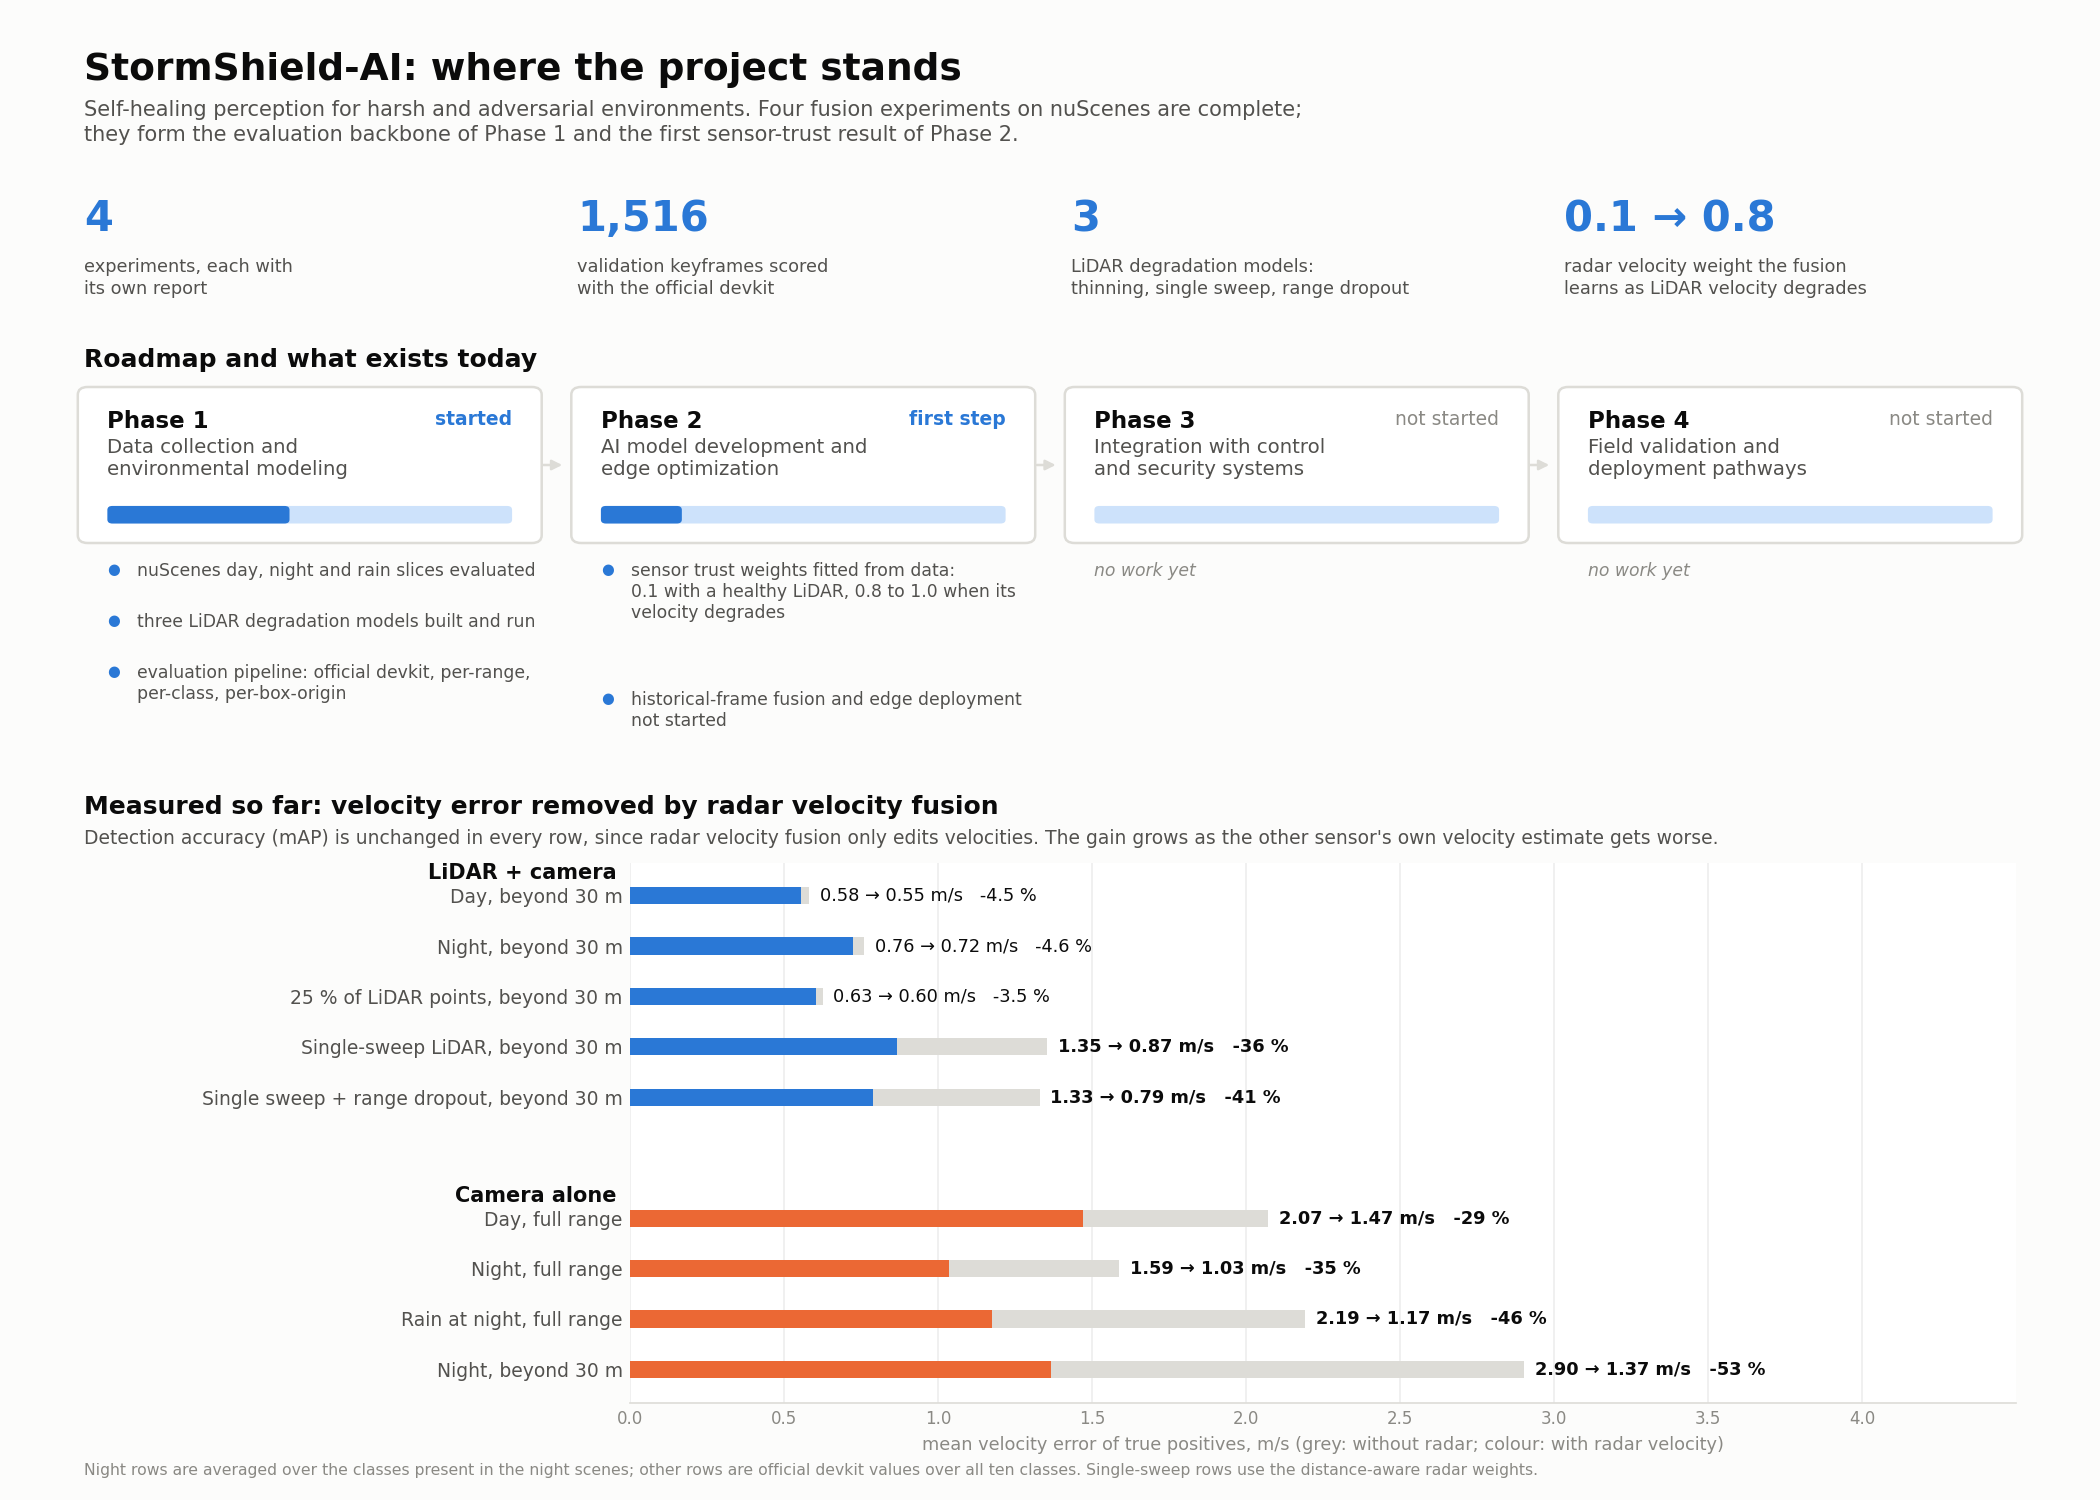
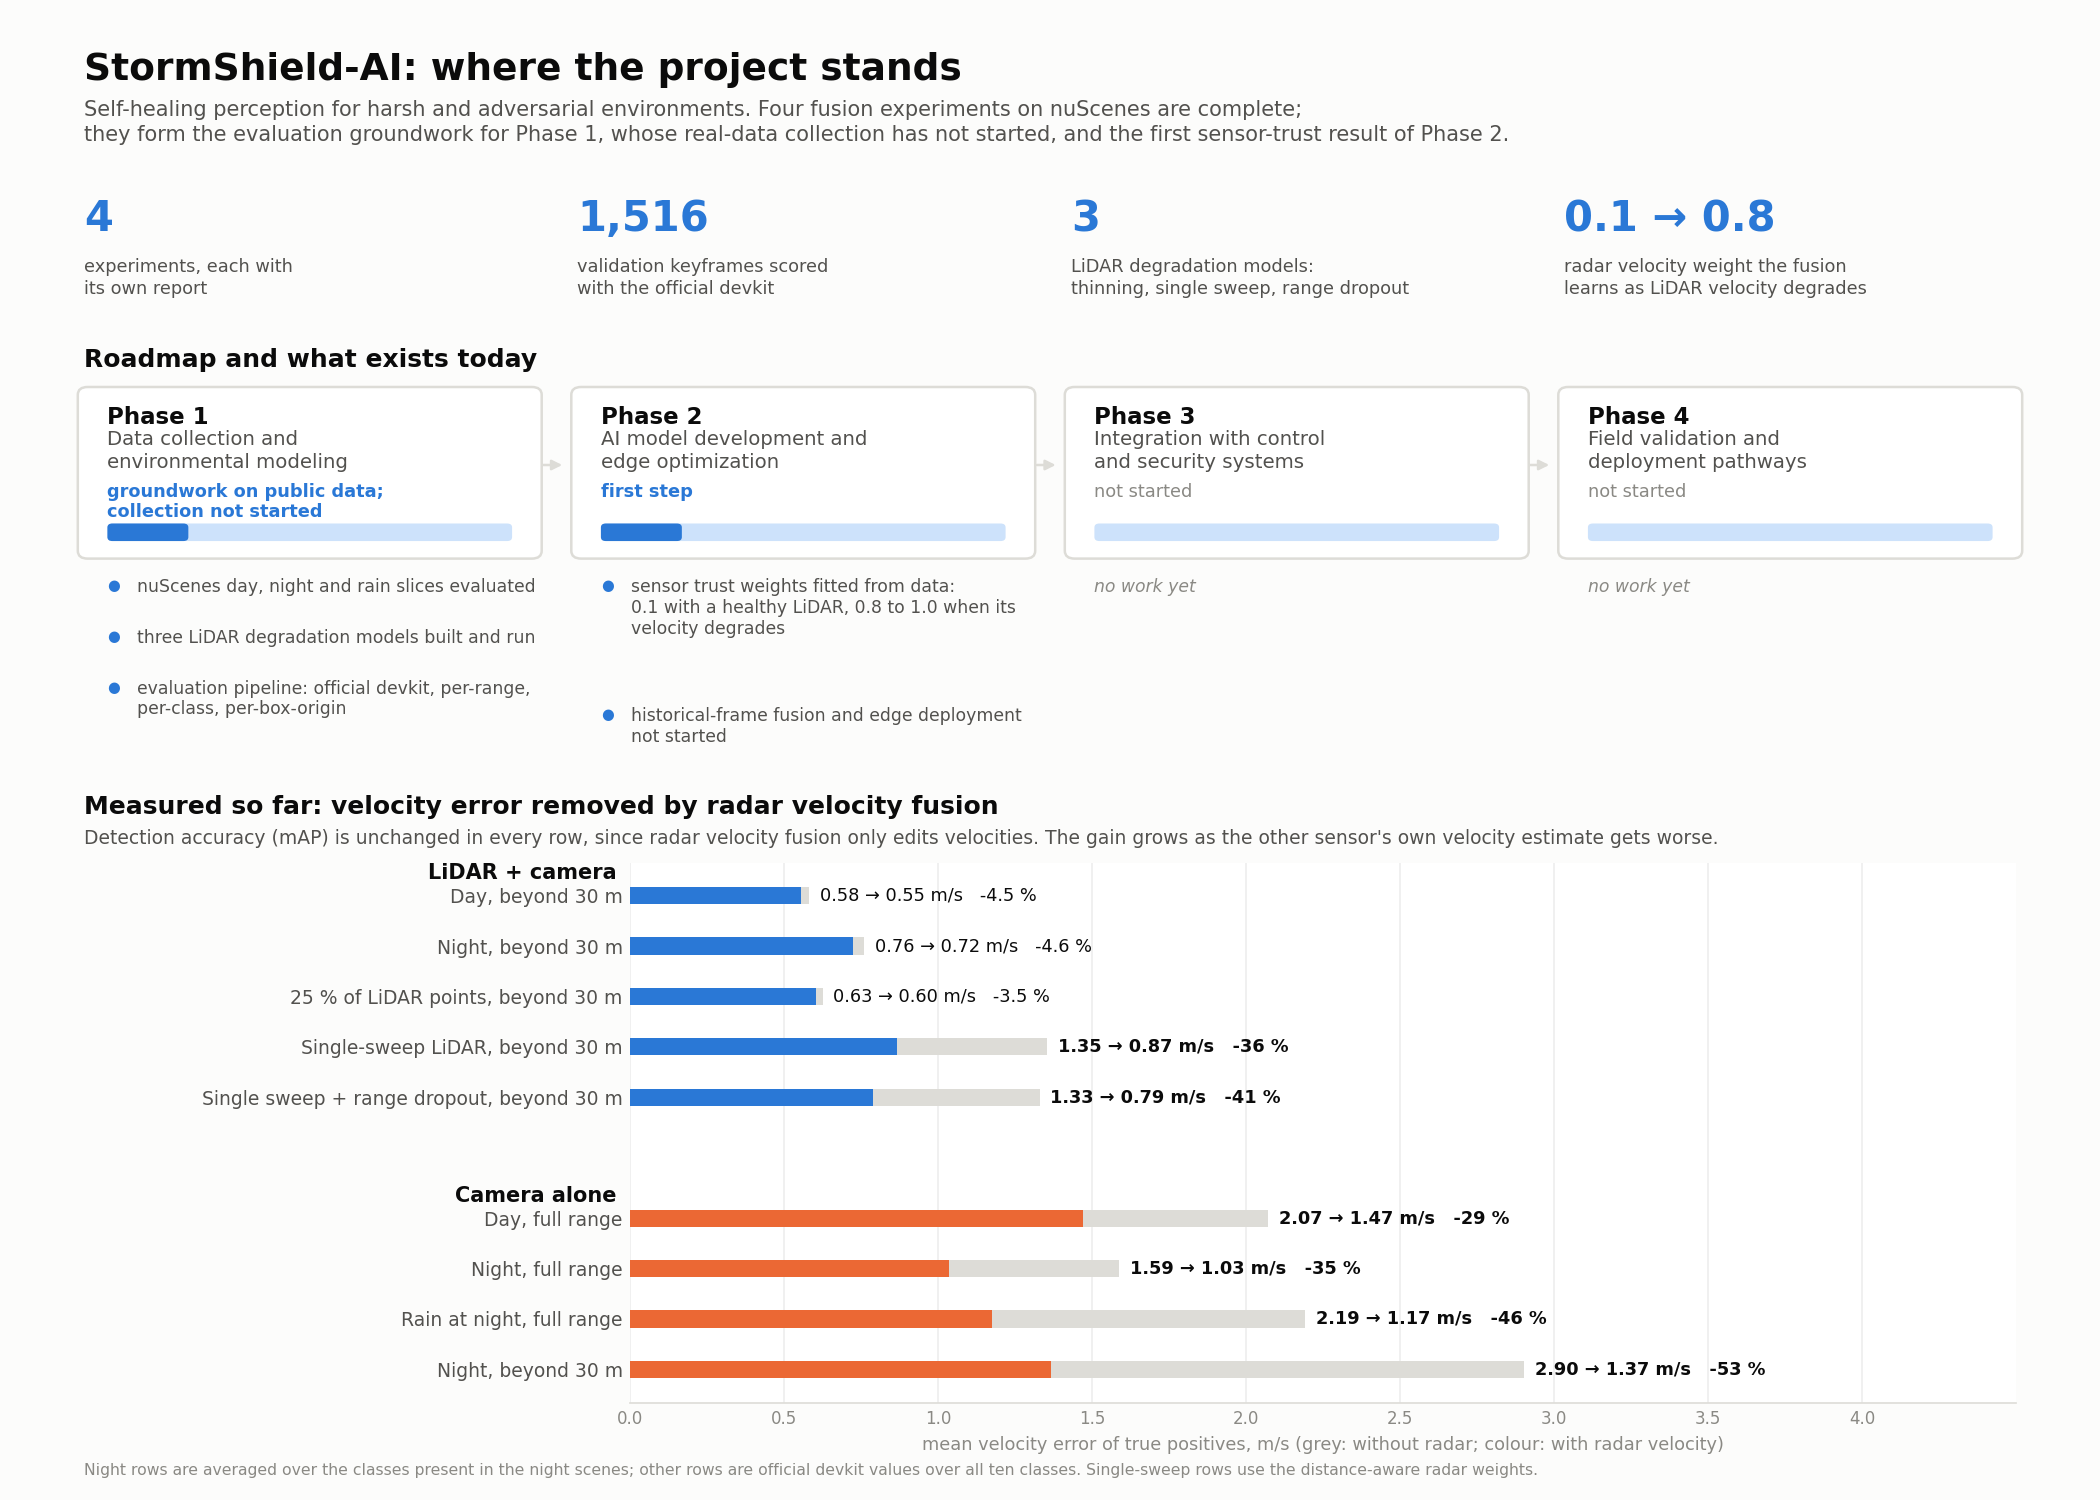
Describe StormShield-AI as a design and state what has not started

diff --git a/scripts/make_status_figure.py b/scripts/make_status_figure.py
@@ -52,7 +52,7 @@ def results():
 
 
 PHASES = [
-    ("Phase 1", "Data collection and\nenvironmental modeling", "started",
+    ("Phase 1", "Data collection and\nenvironmental modeling", "groundwork on public data;\ncollection not started",
      ["nuScenes day, night and rain slices evaluated",
       "three LiDAR degradation models built and run",
       "evaluation pipeline: official devkit, per-range,\nper-class, per-box-origin"]),
@@ -62,7 +62,7 @@ PHASES = [
     ("Phase 3", "Integration with control\nand security systems", "not started", []),
     ("Phase 4", "Field validation and\ndeployment pathways", "not started", []),
 ]
-STATUS_FILL = {"started": 0.45, "first step": 0.2, "not started": 0.0}
+STATUS_FILL = {"groundwork on public data;\ncollection not started": 0.2, "first step": 0.2, "not started": 0.0}
 
 
 def draw_roadmap(ax):
@@ -72,21 +72,21 @@ def draw_roadmap(ax):
     for i, (name, title, status, items) in enumerate(PHASES):
         x0, w = i + 0.04, 0.92
         # phase card
-        ax.add_patch(FancyBboxPatch((x0, 0.56), w, 0.38, boxstyle="round,pad=0.01,rounding_size=0.02",
+        ax.add_patch(FancyBboxPatch((x0, 0.52), w, 0.42, boxstyle="round,pad=0.01,rounding_size=0.02",
                                     linewidth=1.2, edgecolor=LINE, facecolor="white"))
         # progress strip inside the card
-        ax.add_patch(FancyBboxPatch((x0 + 0.05, 0.60), w - 0.10, 0.045, boxstyle="round,pad=0,rounding_size=0.01",
+        ax.add_patch(FancyBboxPatch((x0 + 0.05, 0.555), w - 0.10, 0.045, boxstyle="round,pad=0,rounding_size=0.01",
                                     linewidth=0, facecolor=BLUE_LIGHT))
         frac = STATUS_FILL[status]
         if frac > 0:
-            ax.add_patch(FancyBboxPatch((x0 + 0.05, 0.60), (w - 0.10) * frac, 0.045,
+            ax.add_patch(FancyBboxPatch((x0 + 0.05, 0.555), (w - 0.10) * frac, 0.045,
                                         boxstyle="round,pad=0,rounding_size=0.01", linewidth=0, facecolor=BLUE))
-        ax.text(x0 + 0.05, 0.89, name, fontsize=11, fontweight="bold", color=INK, va="top")
-        ax.text(x0 + 0.05, 0.82, title, fontsize=9.5, color=INK2, va="top", linespacing=1.25)
-        ax.text(x0 + w - 0.05, 0.89, status, fontsize=9, color=BLUE if frac else MUTED, va="top", ha="right",
-                fontweight="bold" if frac else "normal")
+        ax.text(x0 + 0.05, 0.90, name, fontsize=11, fontweight="bold", color=INK, va="top")
+        ax.text(x0 + 0.05, 0.84, title, fontsize=9.5, color=INK2, va="top", linespacing=1.25)
+        ax.text(x0 + 0.05, 0.705, status, fontsize=8.5, color=BLUE if frac else MUTED, va="top", ha="left",
+                fontweight="bold" if frac else "normal", linespacing=1.2)
         # what exists, under the card
-        y = 0.50
+        y = 0.46
         for it in items:
             ax.text(x0 + 0.05, y, "●", fontsize=7, color=BLUE, va="top")
             ax.text(x0 + 0.11, y, it, fontsize=8.3, color=INK2, va="top", linespacing=1.2)
@@ -146,7 +146,7 @@ def main():
     fig = plt.figure(figsize=(14, 10), dpi=150, facecolor=SURFACE)
     fig.text(0.04, 0.965, "StormShield-AI: where the project stands", fontsize=18, fontweight="bold", color=INK, va="top")
     fig.text(0.04, 0.933, "Self-healing perception for harsh and adversarial environments. Four fusion experiments on nuScenes are complete;\n"
-             "they form the evaluation backbone of Phase 1 and the first sensor-trust result of Phase 2.",
+             "they form the evaluation groundwork for Phase 1, whose real-data collection has not started, and the first sensor-trust result of Phase 2.",
              fontsize=10, color=INK2, va="top", linespacing=1.3)
     # stat tiles
     tiles = [("4", "experiments, each with\nits own report"), ("1,516", "validation keyframes scored\nwith the official devkit"),

diff --git a/README.md b/README.md
@@ -1,11 +1,11 @@
 # StormShield-AI: radar late fusion on nuScenes, an inference-only measurement
 
-StormShield-AI is a self-healing perception framework for autonomous machines that must keep
-operating safely in harsh and adversarial environments: dust, rain, fog, low visibility and
-GNSS-denied settings, where sensors degrade and decisions still have to be sound. It builds on
-historical frame fusion and combines multi-sensor data, memory models and probabilistic trust
-scoring, so that a machine can keep an accurate picture of its surroundings and judge how far each
-sensor can be trusted when a primary sensor is degraded or compromised.
+StormShield-AI is intended for autonomous machines that must keep operating safely where sensors
+degrade: dust, rain, fog, low visibility and, in later stages, GNSS-denied or compromised settings. It
+is designed around decision-level fusion of camera, LiDAR and radar with condition-dependent sensor
+trust scoring, so that the machine can judge how far each sensor can be trusted when one is degraded
+and lean on the others. Fusion over past frames, memory models and edge deployment are later stages of
+the plan and have not been started.
 
 This repository holds the project's starting point: an inference-only measurement of what automotive
 radar adds to camera and LiDAR plus camera 3D object detection on nuScenes. Two public pretrained
@@ -14,7 +14,8 @@ unchanged, radar returns are associated to their boxes by geometry, and the fuse
 with the official nuScenes devkit. The only fitted quantities are a radar velocity blend weight per
 distance band and a small logistic re-ranker, both fitted outside the evaluated frames. Across four
 experiments, by day, at night, in rain and with the LiDAR degraded in three ways, these measurements
-form the evaluation backbone of the project's first phase and its first sensor-trust result: the share
+form the evaluation groundwork for the project's first phase, which is the collection of real
+multi-sensor data in degraded conditions and has not started, and its first sensor-trust result: the share
 of radar velocity the fusion learns to take rises from 0.1 with a healthy LiDAR to 0.8 to 1.0 once the
 LiDAR's own velocity estimate degrades.
 
